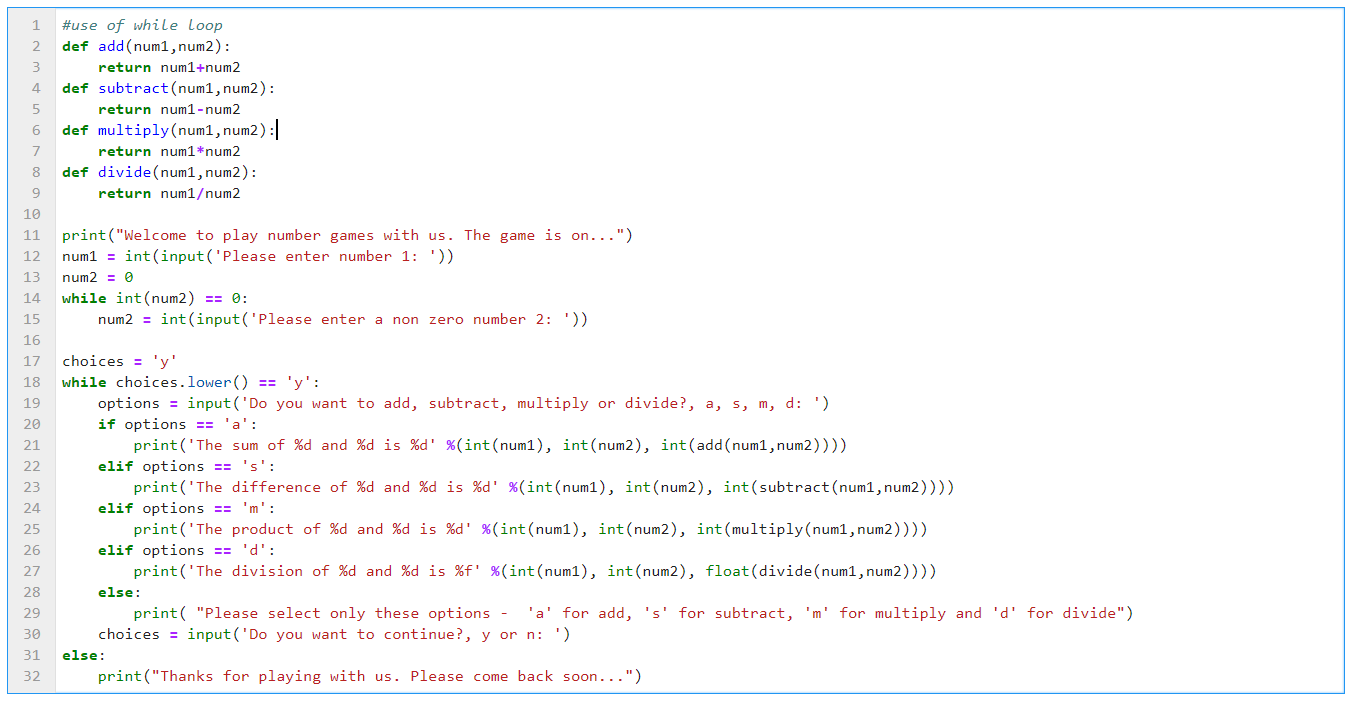
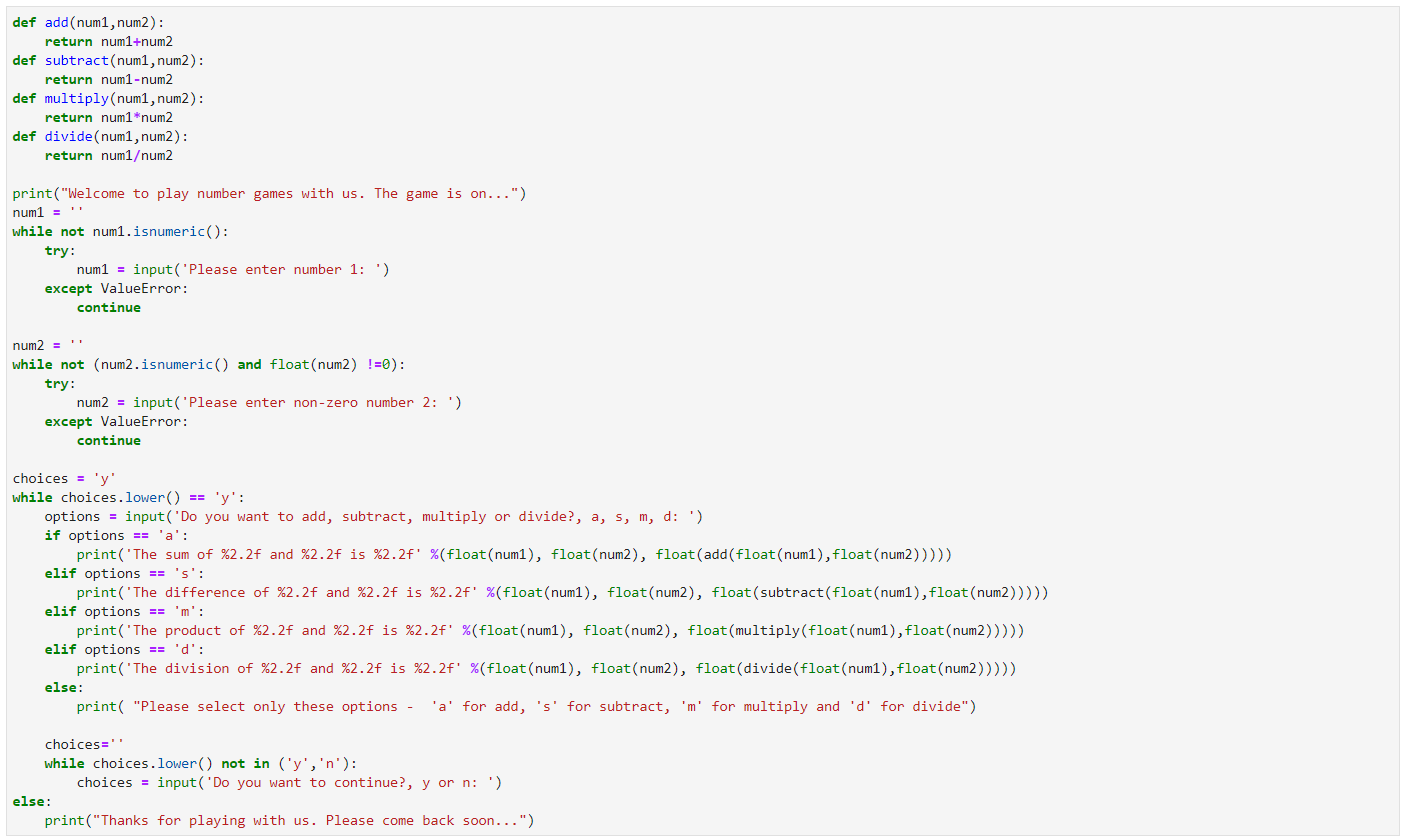
updated loops docs and code update 03

diff --git a/Python 101/008-ControlOfFlow/01-Basics-ControlOfFlow.py b/Python 101/008-ControlOfFlow/01-Basics-ControlOfFlow.py
@@ -32,7 +32,7 @@ for num in range(1,100):
         if num >= 10:
             break;
             
-#use of while loop
+#use of while loop advaned
 choice = 'y'
 while choice.lower() == 'y':
     print("Thanks for continuing to play with us. The game is on...")
@@ -51,24 +51,62 @@ def divide(num1,num2):
     return num1/num2
 
 print("Welcome to play number games with us. The game is on...")
-num1 = int(input('Please enter number 1: '))
-num2 = 0 
-while int(num2) == 0:
-    num2 = int(input('Please enter a non zero number 2: '))
-
+num1 = ''
+while not num1.isnumeric():
+    try:
+        num1 = input('Please enter number 1: ')
+    except ValueError:
+        continue
+    
+num2 = ''
+while not (num2.isnumeric() and float(num2) !=0):
+    try:
+        num2 = input('Please enter non-zero number 2: ')
+    except ValueError:
+        continue
+        
 choices = 'y'
 while choices.lower() == 'y':
     options = input('Do you want to add, subtract, multiply or divide?, a, s, m, d: ')
     if options == 'a':
-        print('The sum of %d and %d is %d' %(int(num1), int(num2), int(add(num1,num2))))
+        print('The sum of %2.2f and %2.2f is %2.2f' %(float(num1), float(num2), float(add(float(num1),float(num2)))))
     elif options == 's':
-        print('The difference of %d and %d is %d' %(int(num1), int(num2), int(subtract(num1,num2))))
+        print('The difference of %2.2f and %2.2f is %2.2f' %(float(num1), float(num2), float(subtract(float(num1),float(num2)))))
     elif options == 'm':
-        print('The product of %d and %d is %d' %(int(num1), int(num2), int(multiply(num1,num2))))
+        print('The product of %2.2f and %2.2f is %2.2f' %(float(num1), float(num2), float(multiply(float(num1),float(num2)))))
     elif options == 'd':
-        print('The division of %d and %d is %f' %(int(num1), int(num2), float(divide(num1,num2))))
+        print('The division of %2.2f and %2.2f is %2.2f' %(float(num1), float(num2), float(divide(float(num1),float(num2)))))
     else:
         print( "Please select only these options -  'a' for add, 's' for subtract, 'm' for multiply and 'd' for divide")
-    choices = input('Do you want to continue?, y or n: ')
+    
+    choices=''
+    while choices.lower() not in ('y','n'):
+        choices = input('Do you want to continue?, y or n: ')
 else:
     print("Thanks for playing with us. Please come back soon...")
+    
+
+
+#use of error handling in loops
+name='0'
+while True:
+    try:
+        if (float(name)>=0.0 or int(name)>=0):
+            name=input('What is your name?')
+        else:
+            break
+    except ValueError:
+        break
+       
+age='0'
+while True:
+    try:
+        if (float(age)>0.0 or int(age)>0):
+            break
+        else:
+            age=input('What is your age?')
+    except ValueError:
+        print('Please enter numeric age only')
+        age=input('What is your age?')
+        
+print('My name is %s and i am %2.2f years old' %(str(name),float(age)))

diff --git a/Python 101/008-ControlOfFlow/README.md b/Python 101/008-ControlOfFlow/README.md
@@ -66,28 +66,67 @@
         return num1/num2
 
     print("Welcome to play number games with us. The game is on...")
-    num1 = int(input('Please enter number 1: '))
-    num2 = 0 
-    while int(num2) == 0:
-        num2 = int(input('Please enter a non zero number 2: '))
+    num1 = ''
+    while not num1.isnumeric():
+        try:
+            num1 = input('Please enter number 1: ')
+        except ValueError:
+            continue
+
+    num2 = ''
+    while not (num2.isnumeric() and float(num2) !=0):
+        try:
+            num2 = input('Please enter non-zero number 2: ')
+        except ValueError:
+            continue
 
     choices = 'y'
     while choices.lower() == 'y':
         options = input('Do you want to add, subtract, multiply or divide?, a, s, m, d: ')
         if options == 'a':
-            print('The sum of %d and %d is %d' %(int(num1), int(num2), int(add(num1,num2))))
+            print('The sum of %2.2f and %2.2f is %2.2f' %(float(num1), float(num2), float(add(float(num1),float(num2)))))
         elif options == 's':
-            print('The difference of %d and %d is %d' %(int(num1), int(num2), int(subtract(num1,num2))))
+            print('The difference of %2.2f and %2.2f is %2.2f' %(float(num1), float(num2), float(subtract(float(num1),float(num2)))))
         elif options == 'm':
-            print('The product of %d and %d is %d' %(int(num1), int(num2), int(multiply(num1,num2))))
+            print('The product of %2.2f and %2.2f is %2.2f' %(float(num1), float(num2), float(multiply(float(num1),float(num2)))))
         elif options == 'd':
-            print('The division of %d and %d is %f' %(int(num1), int(num2), float(divide(num1,num2))))
+            print('The division of %2.2f and %2.2f is %2.2f' %(float(num1), float(num2), float(divide(float(num1),float(num2)))))
         else:
             print( "Please select only these options -  'a' for add, 's' for subtract, 'm' for multiply and 'd' for divide")
-        choices = input('Do you want to continue?, y or n: ')
+
+        choices=''
+        while choices.lower() not in ('y','n'):
+            choices = input('Do you want to continue?, y or n: ')
     else:
         print("Thanks for playing with us. Please come back soon...")
 
     ```
     ![Python Basics Control Of Flow](../images/001-009-Basics-ControlOfFlow-04.png)
     ![Python Basics Control Of Flow](../images/001-009-Basics-ControlOfFlow-05.png)
+    
+    * Use of error handling in loops
+    ```
+    name='0'
+    while True:
+        try:
+            if (float(name)>=0.0 or int(name)>=0):
+                name=input('What is your name?')
+            else:
+                break
+        except ValueError:
+            break
+
+    age='0'
+    while True:
+        try:
+            if (float(age)>0.0 or int(age)>0):
+                break
+            else:
+                age=input('What is your age?')
+        except ValueError:
+            print('Please enter numeric age only')
+            age=input('What is your age?')
+
+    print('My name is %s and i am %2.2f years old' %(str(name),float(age)))
+    ```
+    ![Python Basics Control Of Flow](../images/001-009-Basics-ControlOfFlow-06.png)
